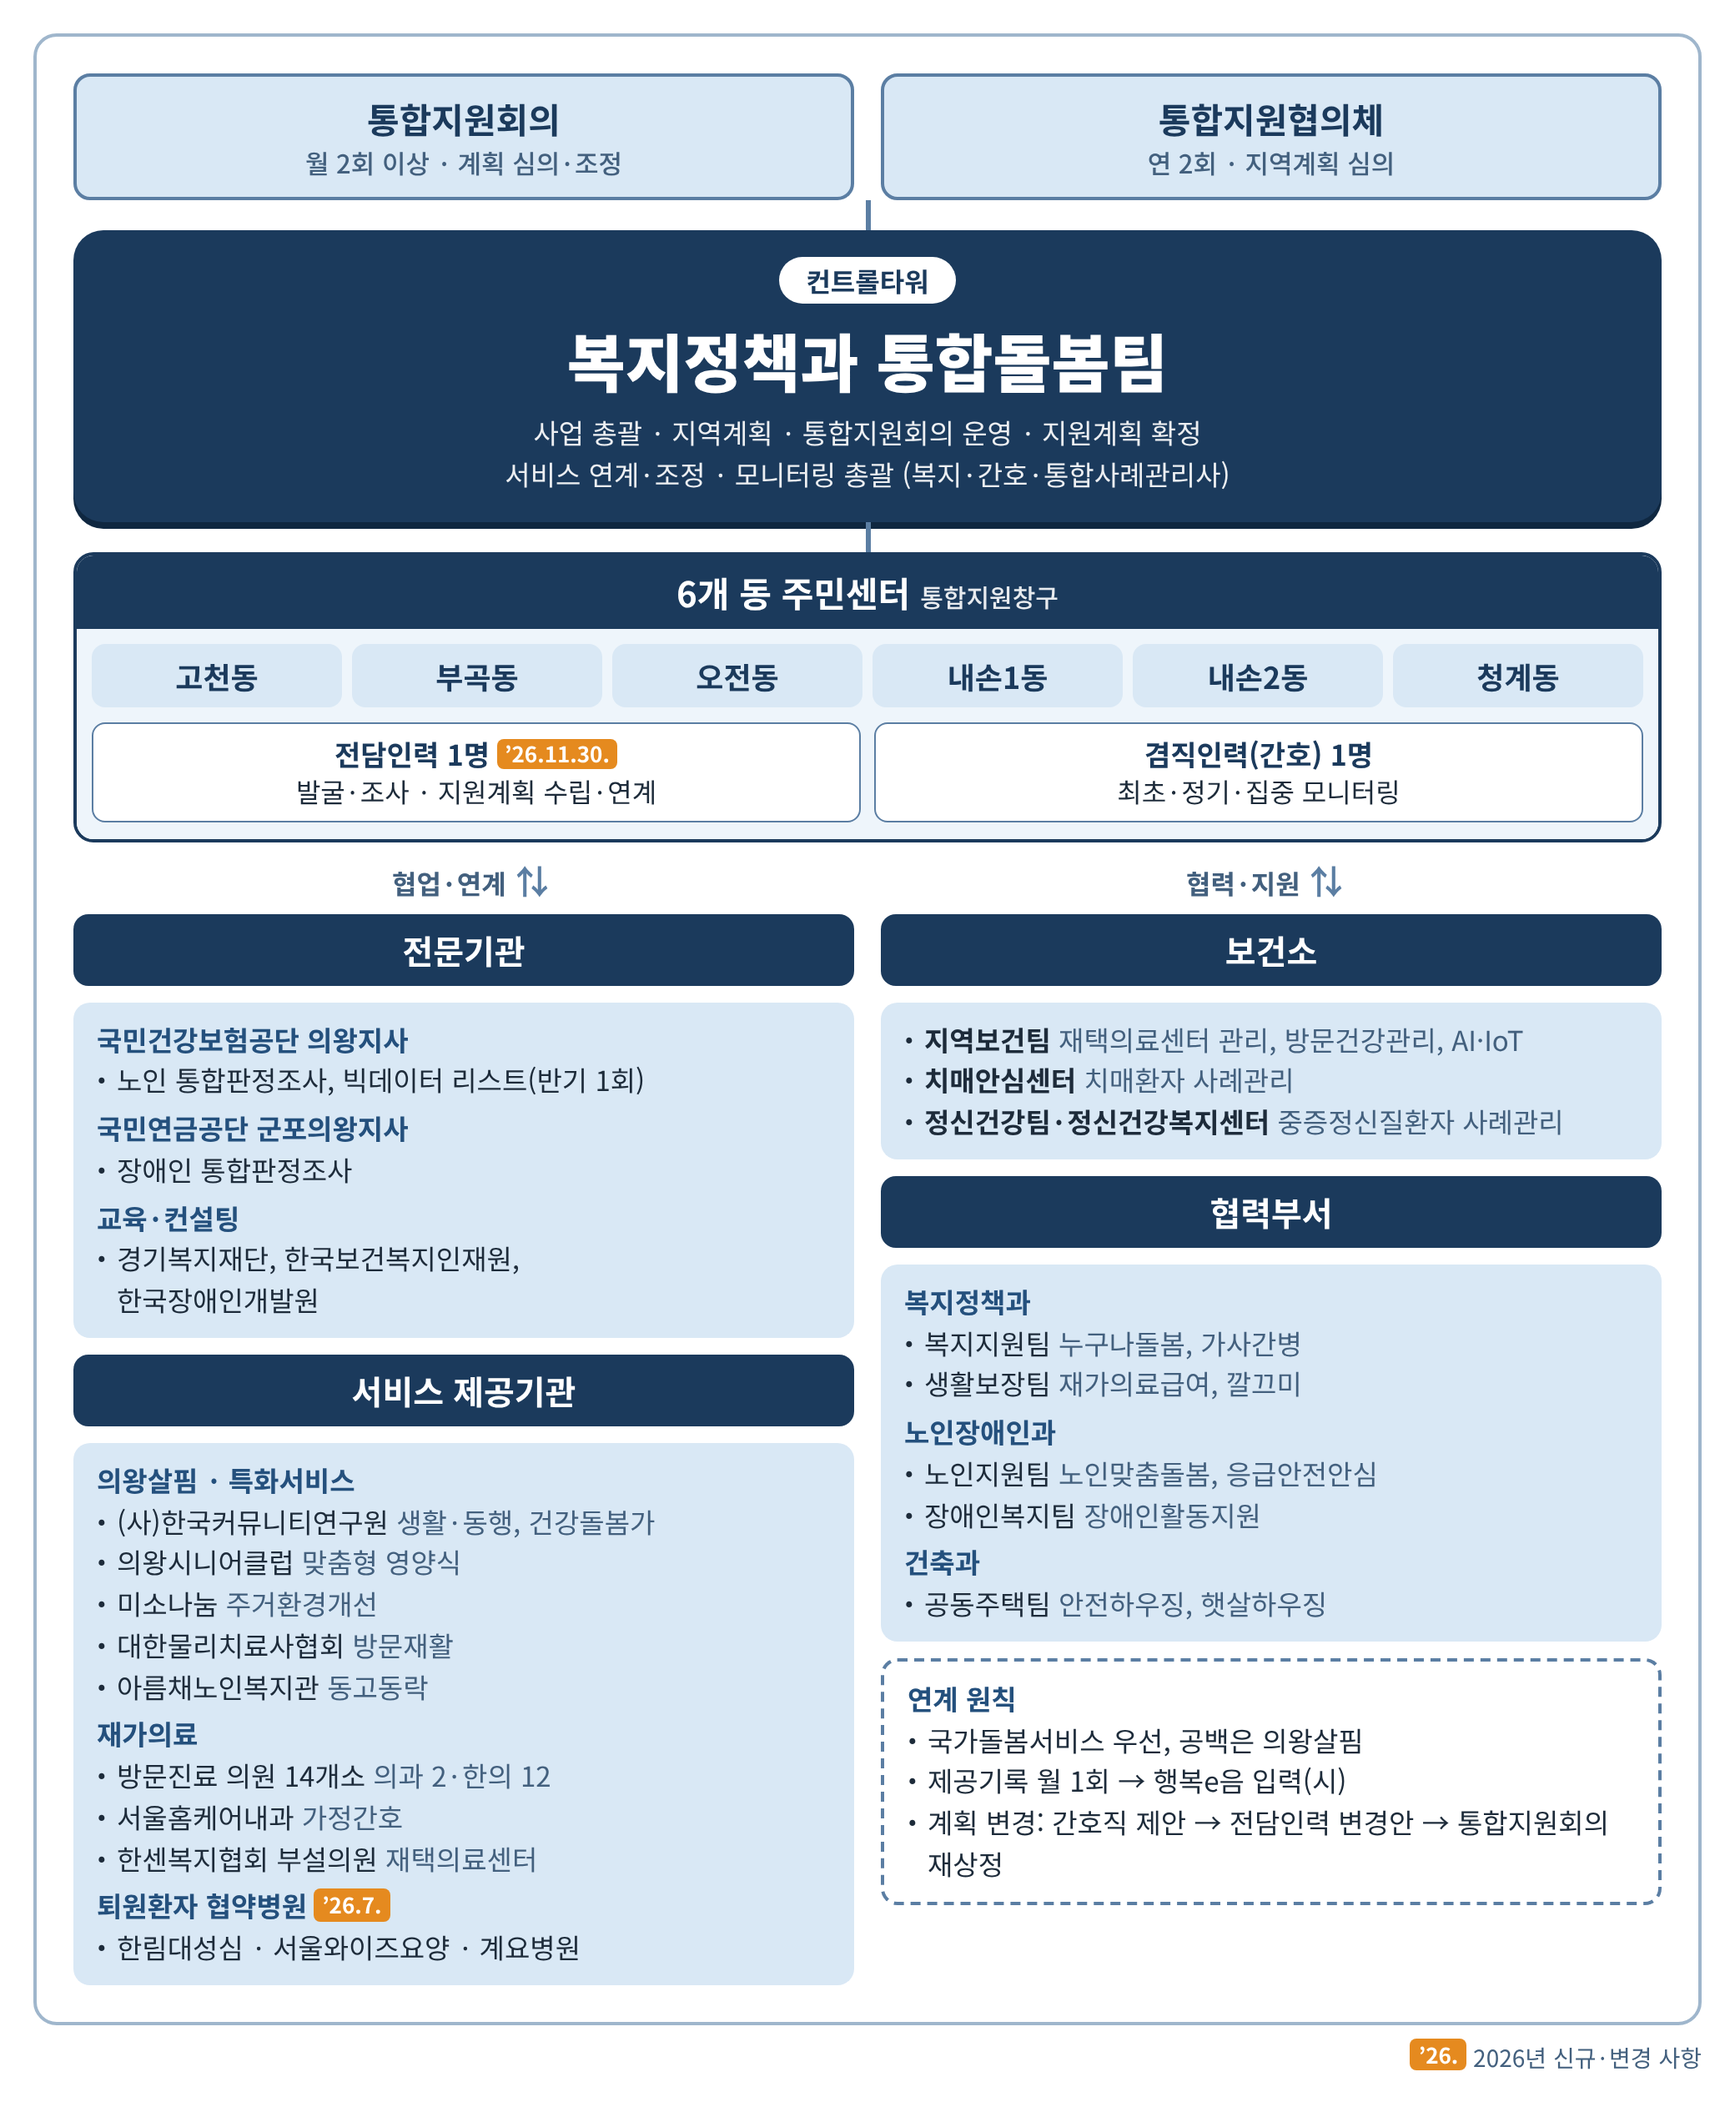
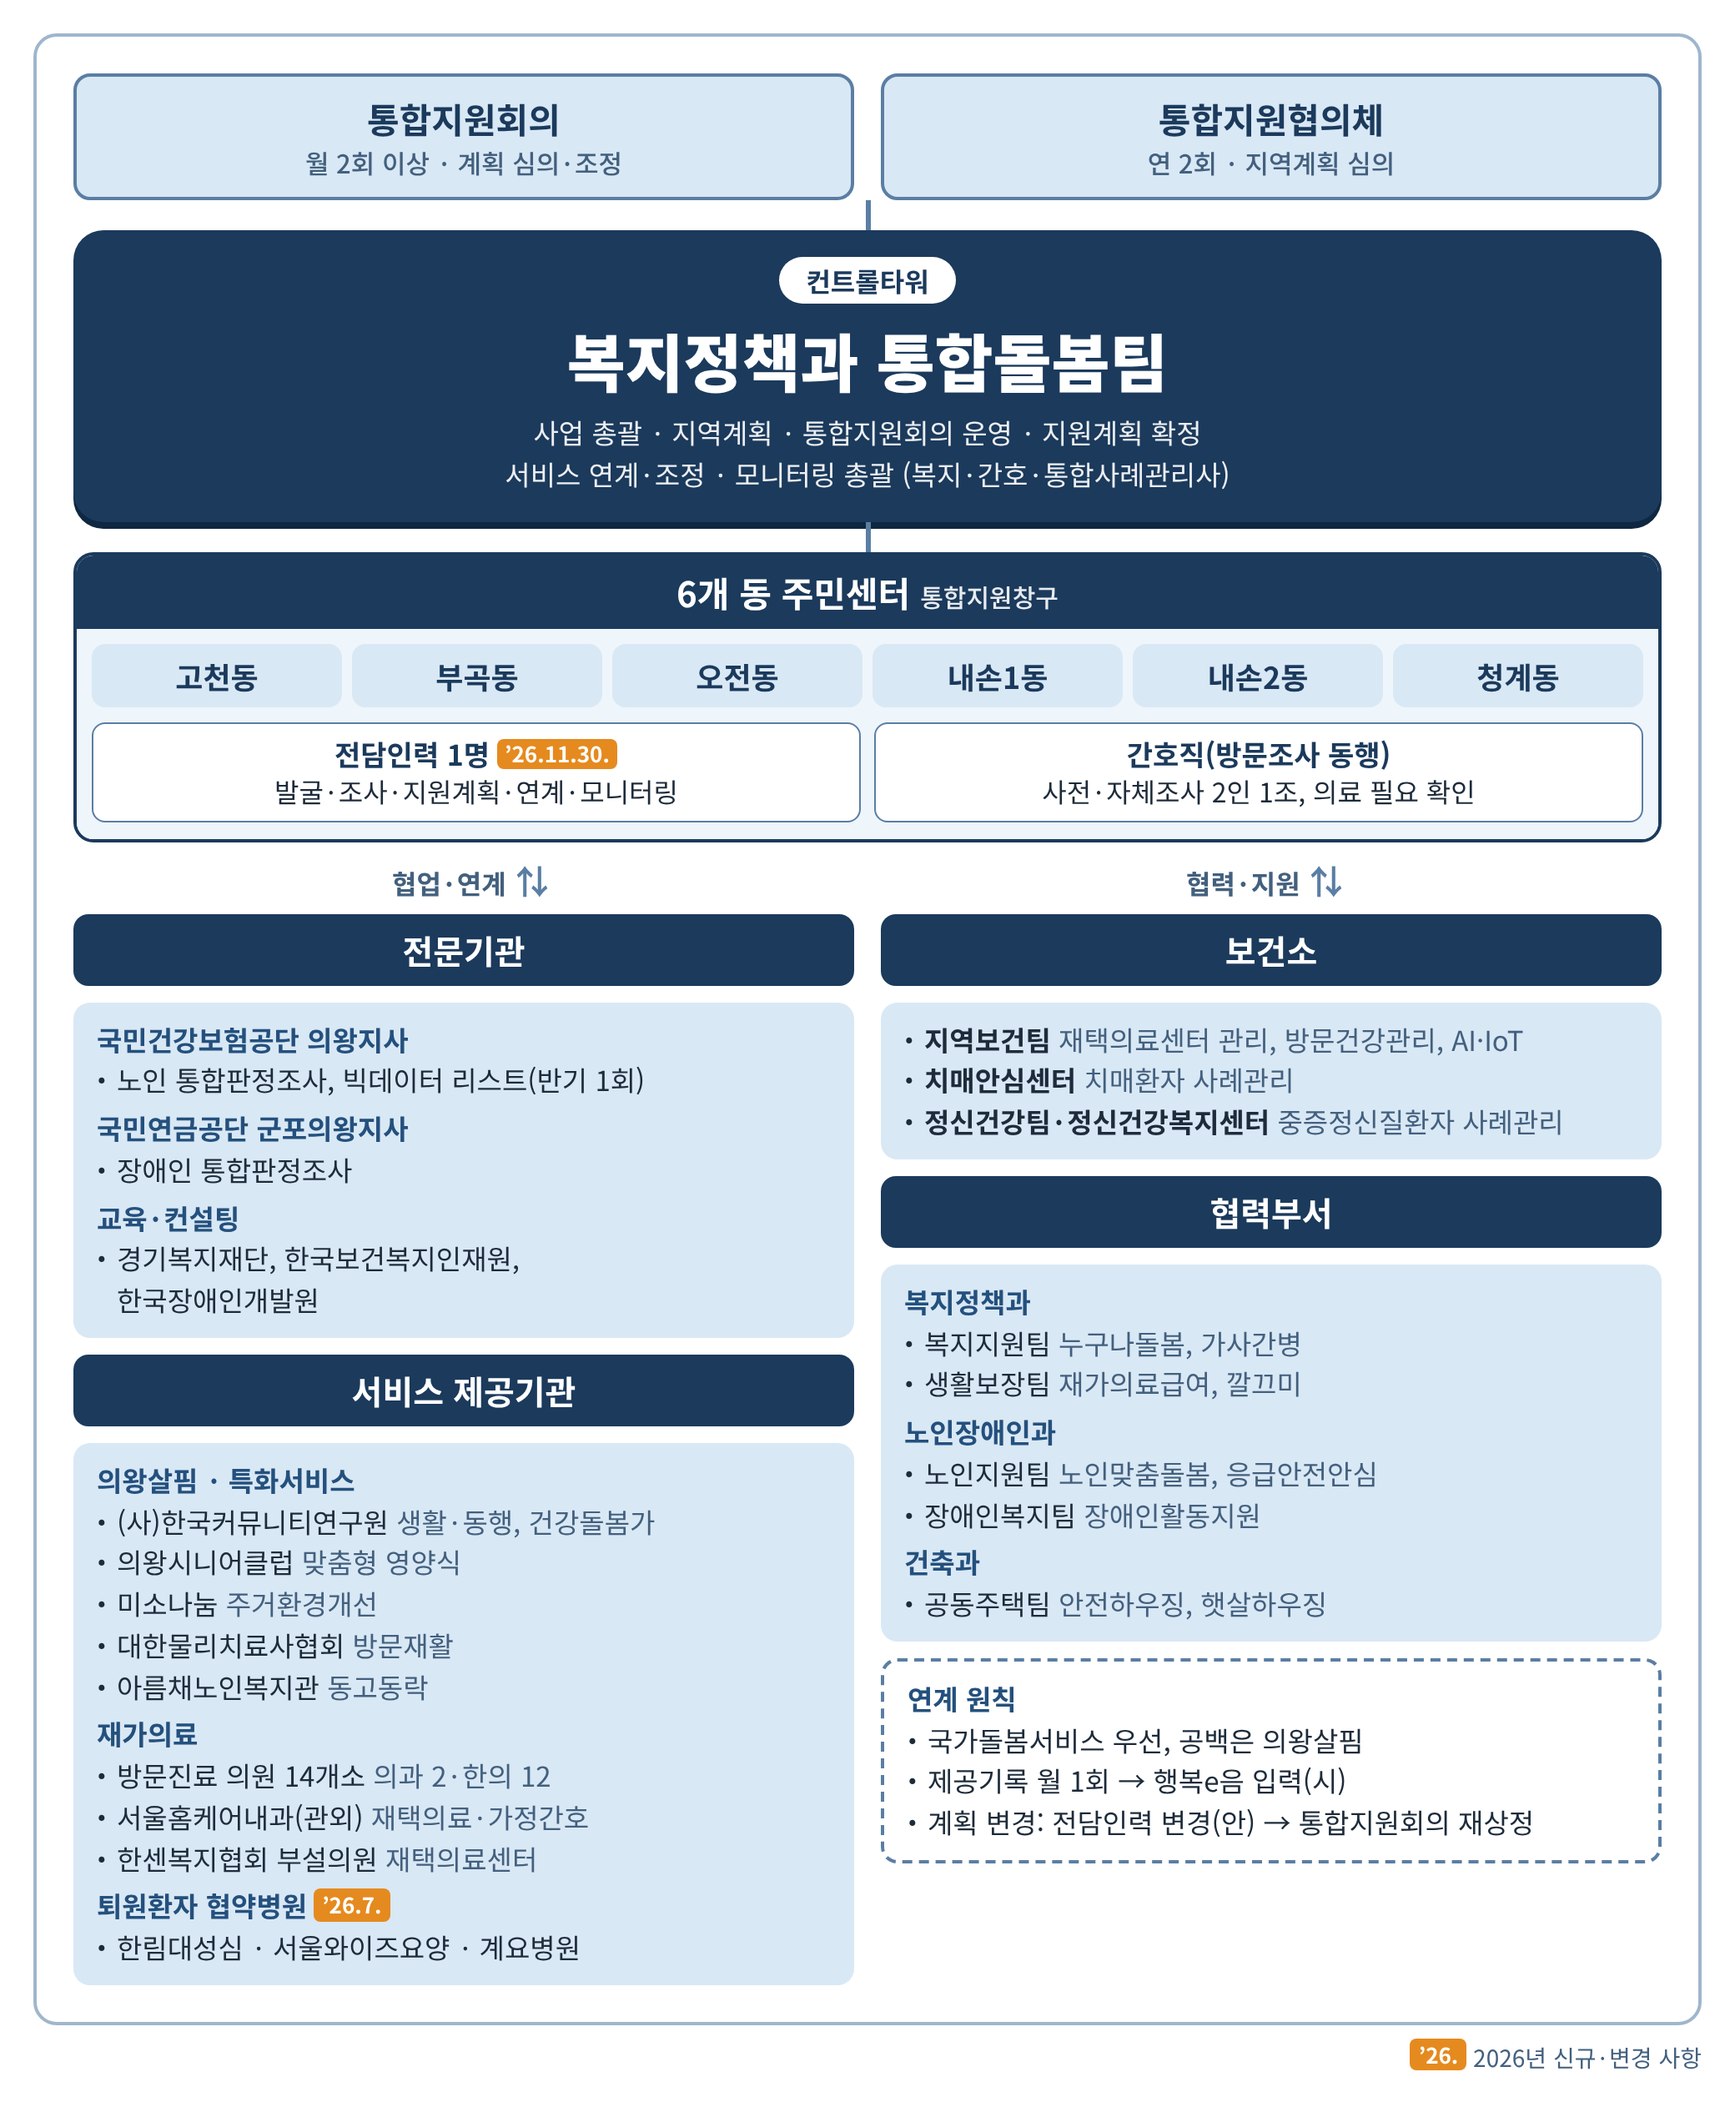
Update org chart and service flow: dong staff monitors, nurse joins visits
Claude-Session: https://claude.ai/code/session_01Rws36siuxpZ2CZV6pJjBDn

diff --git a/docs/uiwang-2027-plan/figures/src/flow.html b/docs/uiwang-2027-plan/figures/src/flow.html
@@ -4,7 +4,7 @@
 <style>
 :root{--navy:#1b3a5c;--navy2:#24507d;--sky:#d9e8f5;--sky2:#eef5fb;--line:#9fb6cc;--text:#1d2b3a;--sub:#4d6680}
 *{box-sizing:border-box;margin:0;padding:0}
-body{font-family:'Noto Sans KR',sans-serif;color:var(--text);background:#fff;padding:24px;width:1140px}
+body{word-break:keep-all;font-family:'Noto Sans KR',sans-serif;color:var(--text);background:#fff;padding:24px;width:1140px}
 .head{display:grid;grid-template-columns:200px 190px 1fr;gap:14px;margin-bottom:10px}
 .head div{background:var(--navy);color:#fff;font-weight:700;font-size:17px;text-align:center;padding:9px;border-radius:8px}
 .step{display:grid;grid-template-columns:200px 190px 1fr;gap:14px;align-items:stretch}
@@ -48,7 +48,7 @@ body{font-family:'Noto Sans KR',sans-serif;color:var(--text);background:#fff;pad
   <div class="badge"><div class="n">2</div><div class="t">사전조사</div></div>
   <div class="who"><span>동 주민센터</span></div>
   <div class="body"><ul>
-    <li>동 담당자가 사전조사 실시 후 결과를 신청자에게 안내</li>
+    <li>동 전담인력이 사전조사 실시(방문 시 간호직 동행, 2인 1조) 후 결과를 신청자에게 안내</li>
     <li>긴급돌봄이 필요하면 긴급돌봄 담당자에게 지원사업 의뢰</li>
   </ul><div class="forms"><em>서식</em><span>사전조사지</span><span>사전조사결과 안내서</span><span>긴급돌봄지원사업 대상자 추천서</span></div></div>
 </div>
@@ -60,7 +60,7 @@ body{font-family:'Noto Sans KR',sans-serif;color:var(--text);background:#fff;pad
   <div class="body"><ul>
     <li>사전조사 결과 ‘통합판정조사군’은 건보공단(노인)·연금공단(장애인) 지사로 판정 의뢰</li>
     <li>판정조사 시 지자체 담당자 동행 또는 단독 방문조사</li>
-    <li>지자체 자체조사 실시(동 담당자)</li>
+    <li>지자체 자체조사 실시(동 전담인력·간호직 2인 1조 방문)</li>
   </ul><div class="forms"><em>서식</em><span>조사 등 의뢰서</span><span>통합판정조사표</span><span>통합판정서</span><span>동행·단독 방문조사 서식</span><span>지자체 자체조사 서식</span></div></div>
 </div>
 <div class="arrow"><div></div></div>
@@ -69,7 +69,7 @@ body{font-family:'Noto Sans KR',sans-serif;color:var(--text);background:#fff;pad
   <div class="badge"><div class="n">4</div><div class="t">개인별<br>지원계획 수립</div><div class="s">(통합지원회의 운영)</div></div>
   <div class="who"><span>동 주민센터</span><span>시 전담부서</span></div>
   <div class="body"><ul>
-    <li>동 담당자가 조사결과를 토대로 개인별지원계획(초안) 수립</li>
+    <li>동 전담인력이 조사결과를 토대로 개인별지원계획(초안) 수립</li>
     <li class="sub">시 담당자 계획 확정 → 통합지원회의 안건 상정</li>
     <li>통합지원회의에서 서비스 조정, 계획 승인·변경, 종결 여부 심의·결정</li>
   </ul><div class="forms"><em>서식</em><span>개인별지원계획서</span><span>시군구 통합지원회의</span></div></div>
@@ -78,21 +78,19 @@ body{font-family:'Noto Sans KR',sans-serif;color:var(--text);background:#fff;pad
 
 <div class="step">
   <div class="badge"><div class="n">5</div><div class="t">서비스 제공<br>및 모니터링</div></div>
-  <div class="who"><span>시 전담부서</span><span>동 겸직인력<br>(간호)</span><span>동 전담인력</span><span>제공기관</span></div>
+  <div class="who"><span>시 전담부서</span><span>동 전담인력</span><span>제공기관</span></div>
   <div class="body"><ul>
     <li><b>(서비스 제공)</b> 시 전담부서가 제공기관에 정보 공유 및 서비스 의뢰</li>
     <li class="sub">제공기관이 제공주기·최초 제공일·상태변화를 매월 시에 제출 → 시가 행복e음 입력</li>
-    <li><b>(모니터링)</b> 동 겸직인력(간호)이 수행하고 결과를 행복e음에 입력</li>
+    <li><b>(모니터링)</b> 동 전담인력이 수행하고 결과를 행복e음에 입력</li>
   </ul>
-  <table class="mt"><colgroup><col style="width:9%"><col style="width:37%"><col style="width:27%"><col style="width:27%"></colgroup>
+  <table class="mt"><colgroup><col style="width:9%"><col style="width:27%"><col style="width:36%"><col style="width:28%"></colgroup>
     <tr><th>구분</th><th>대상</th><th>주기</th><th>방법</th></tr>
-    <tr><td class="g">최초</td><td>신규 서비스 연계 대상자</td><td>서비스 개시 후 1개월 이내</td><td>대면 방문</td></tr>
-    <tr><td class="g" rowspan="2">집중</td><td>퇴원환자</td><td>퇴원 초기 30일간 주 1~2회</td><td>대면·유선</td></tr>
-    <tr><td>고위험 대상자(건강악화·와상·독거 초고령)</td><td>월 1회 이상 또는 수시</td><td>대면 우선</td></tr>
-    <tr><td class="g">정기</td><td>일반 대상자</td><td>3개월마다 1회 이상</td><td>제공기록 확인 후 유선, 필요 시 대면</td></tr>
+    <tr><td class="g">최초</td><td>신규 서비스 연계 대상자</td><td>개인별지원계획 안내일로부터 1개월 이내</td><td>대면·유선</td></tr>
+        <tr><td class="g">정기</td><td>일반 대상자</td><td>3개월마다 1회 이상</td><td>제공기록 확인 후 유선, 필요 시 대면</td></tr>
   </table>
   <ul style="flex:0;padding-top:6px">
-    <li><b>(계획 변경)</b> 간호직 변경 제안 → 전담인력 변경안 작성 → 통합지원회의 재상정 → 시 전담부서가 제공기관에 의뢰</li>
+    <li><b>(계획 변경)</b> 전담인력 변경(안) 작성 → 통합지원회의 재상정 → 시 전담부서가 제공기관에 의뢰</li>
   </ul><div class="forms"><em>서식</em><span>개인지원계획 확정 통보 서식</span><span>서비스 제공(변경) 의뢰서</span><span>모니터링 서식</span><span>모니터링-제공기관 기록지</span></div></div>
 </div>
 <div class="arrow"><div></div></div>

diff --git a/docs/uiwang-2027-plan/figures/src/org_v.html b/docs/uiwang-2027-plan/figures/src/org_v.html
@@ -54,8 +54,8 @@ body{font-family:'Noto Sans KR',sans-serif;color:var(--text);background:#fff;pad
     <div class="t">6개 동 주민센터<small>통합지원창구</small></div>
     <div class="dongs"><span>고천동</span><span>부곡동</span><span>오전동</span><span>내손1동</span><span>내손2동</span><span>청계동</span></div>
     <div class="pair">
-      <div><b>전담인력 1명</b><span class="new">’26.11.30.</span><br>발굴·조사 · 지원계획 수립·연계</div>
-      <div><b>겸직인력(간호) 1명</b><br>최초·정기·집중 모니터링</div>
+      <div><b>전담인력 1명</b><span class="new">’26.11.30.</span><br>발굴·조사·지원계획·연계·모니터링</div>
+      <div><b>간호직(방문조사 동행)</b><br>사전·자체조사 2인 1조, 의료 필요 확인</div>
     </div>
   </div>
   <div class="link"><span>협업·연계</span><span>협력·지원</span></div>
@@ -80,7 +80,7 @@ body{font-family:'Noto Sans KR',sans-serif;color:var(--text);background:#fff;pad
         <li>아름채노인복지관 <span class="s">동고동락</span></li></ul>
         <div class="g">재가의료</div>
         <ul><li>방문진료 의원 14개소 <span class="s">의과 2·한의 12</span></li>
-        <li>서울홈케어내과 <span class="s">가정간호</span></li>
+        <li>서울홈케어내과(관외) <span class="s">재택의료·가정간호</span></li>
         <li>한센복지협회 부설의원 <span class="s">재택의료센터</span></li></ul>
         <div class="g">퇴원환자 협약병원<span class="new">’26.7.</span></div>
         <ul><li>한림대성심 · 서울와이즈요양 · 계요병원</li></ul>
@@ -105,7 +105,7 @@ body{font-family:'Noto Sans KR',sans-serif;color:var(--text);background:#fff;pad
         <div class="g">연계 원칙</div>
         <ul><li>국가돌봄서비스 우선, 공백은 의왕살핌</li>
         <li>제공기록 월 1회 → 행복e음 입력(시)</li>
-        <li>계획 변경: 간호직 제안 → 전담인력 변경안 → 통합지원회의 재상정</li></ul>
+        <li>계획 변경: 전담인력 변경(안) → 통합지원회의 재상정</li></ul>
       </div>
     </div>
   </div>

diff --git a/docs/uiwang-2027-plan/figures/src/org.html b/docs/uiwang-2027-plan/figures/src/org.html
@@ -65,7 +65,7 @@ body{width:auto;font-family:'Noto Sans KR','WenQuanYi Zen Hei',sans-serif;color:
       <div class="grp">재가의료</div>
       <ul>
         <li>방문진료 참여의원 14개소 <span style="color:#43607e">의과 2·한의 12</span></li>
-        <li>서울홈케어내과 <span style="color:#43607e">가정간호</span></li>
+        <li>서울홈케어내과(관외) <span style="color:#43607e">재택의료·가정간호</span></li>
         <li>한센복지협회 부설의원 <span style="color:#43607e">재택의료센터</span></li>
       </ul>
       <div class="grp">퇴원환자 협약병원<span class="new">’26.7.</span></div>
@@ -92,8 +92,8 @@ body{width:auto;font-family:'Noto Sans KR','WenQuanYi Zen Hei',sans-serif;color:
       <div class="t">6개 동 주민센터<small>통합지원창구</small></div>
       <div class="dongs"><span>고천동</span><span>부곡동</span><span>오전동</span><span>내손1동</span><span>내손2동</span><span>청계동</span></div>
       <div class="pair">
-        <div><b>전담인력 1명<span class="new">’26.11.30.</span></b>발굴·신청·조사<br>지원계획 수립·서비스 연계</div>
-        <div><b>겸직인력(간호) 1명</b>최초·정기·집중 모니터링<br>의료 필요 확인·변경 제안</div>
+        <div><b>전담인력 1명<span class="new">’26.11.30.</span></b>발굴·조사·지원계획 수립<br>서비스 연계·모니터링</div>
+        <div><b>간호직(방문조사 동행)</b>사전·자체조사 2인 1조<br>의료 필요 확인</div>
       </div>
     </div>
   </div>
@@ -124,7 +124,7 @@ body{width:auto;font-family:'Noto Sans KR','WenQuanYi Zen Hei',sans-serif;color:
       <div class="grp">연계 원칙</div>
       <ul><li>국가돌봄서비스 우선 연계, 공백은 의왕살핌으로 보완</li>
       <li>제공기록 월 1회 취합 → 행복e음 입력(시)</li>
-      <li>변경 필요 시 간호직 제안 → 전담인력 변경안 → 통합지원회의 재상정</li></ul>
+      <li>변경 필요 시 전담인력 변경(안) → 통합지원회의 재상정</li></ul>
     </div>
   </div>
 

diff --git a/docs/uiwang-2027-plan/figures/src/shot.js b/docs/uiwang-2027-plan/figures/src/shot.js
@@ -1,5 +1,5 @@
 const {chromium}=require('playwright');
-(async()=>{const b=await chromium.launch();const p=await b.newPage({viewport:{width:1500,height:900},deviceScaleFactor:2});
+(async()=>{const b=await chromium.launch();const p=await b.newPage({viewport:{width:1200,height:900},deviceScaleFactor:2});
 await p.goto('file://'+process.argv[2],{waitUntil:'networkidle'}).catch(()=>{});
 await p.waitForTimeout(1500);
 const f=await p.evaluate(()=>document.fonts.check('16px "Noto Sans KR"'));console.log('noto',f);
